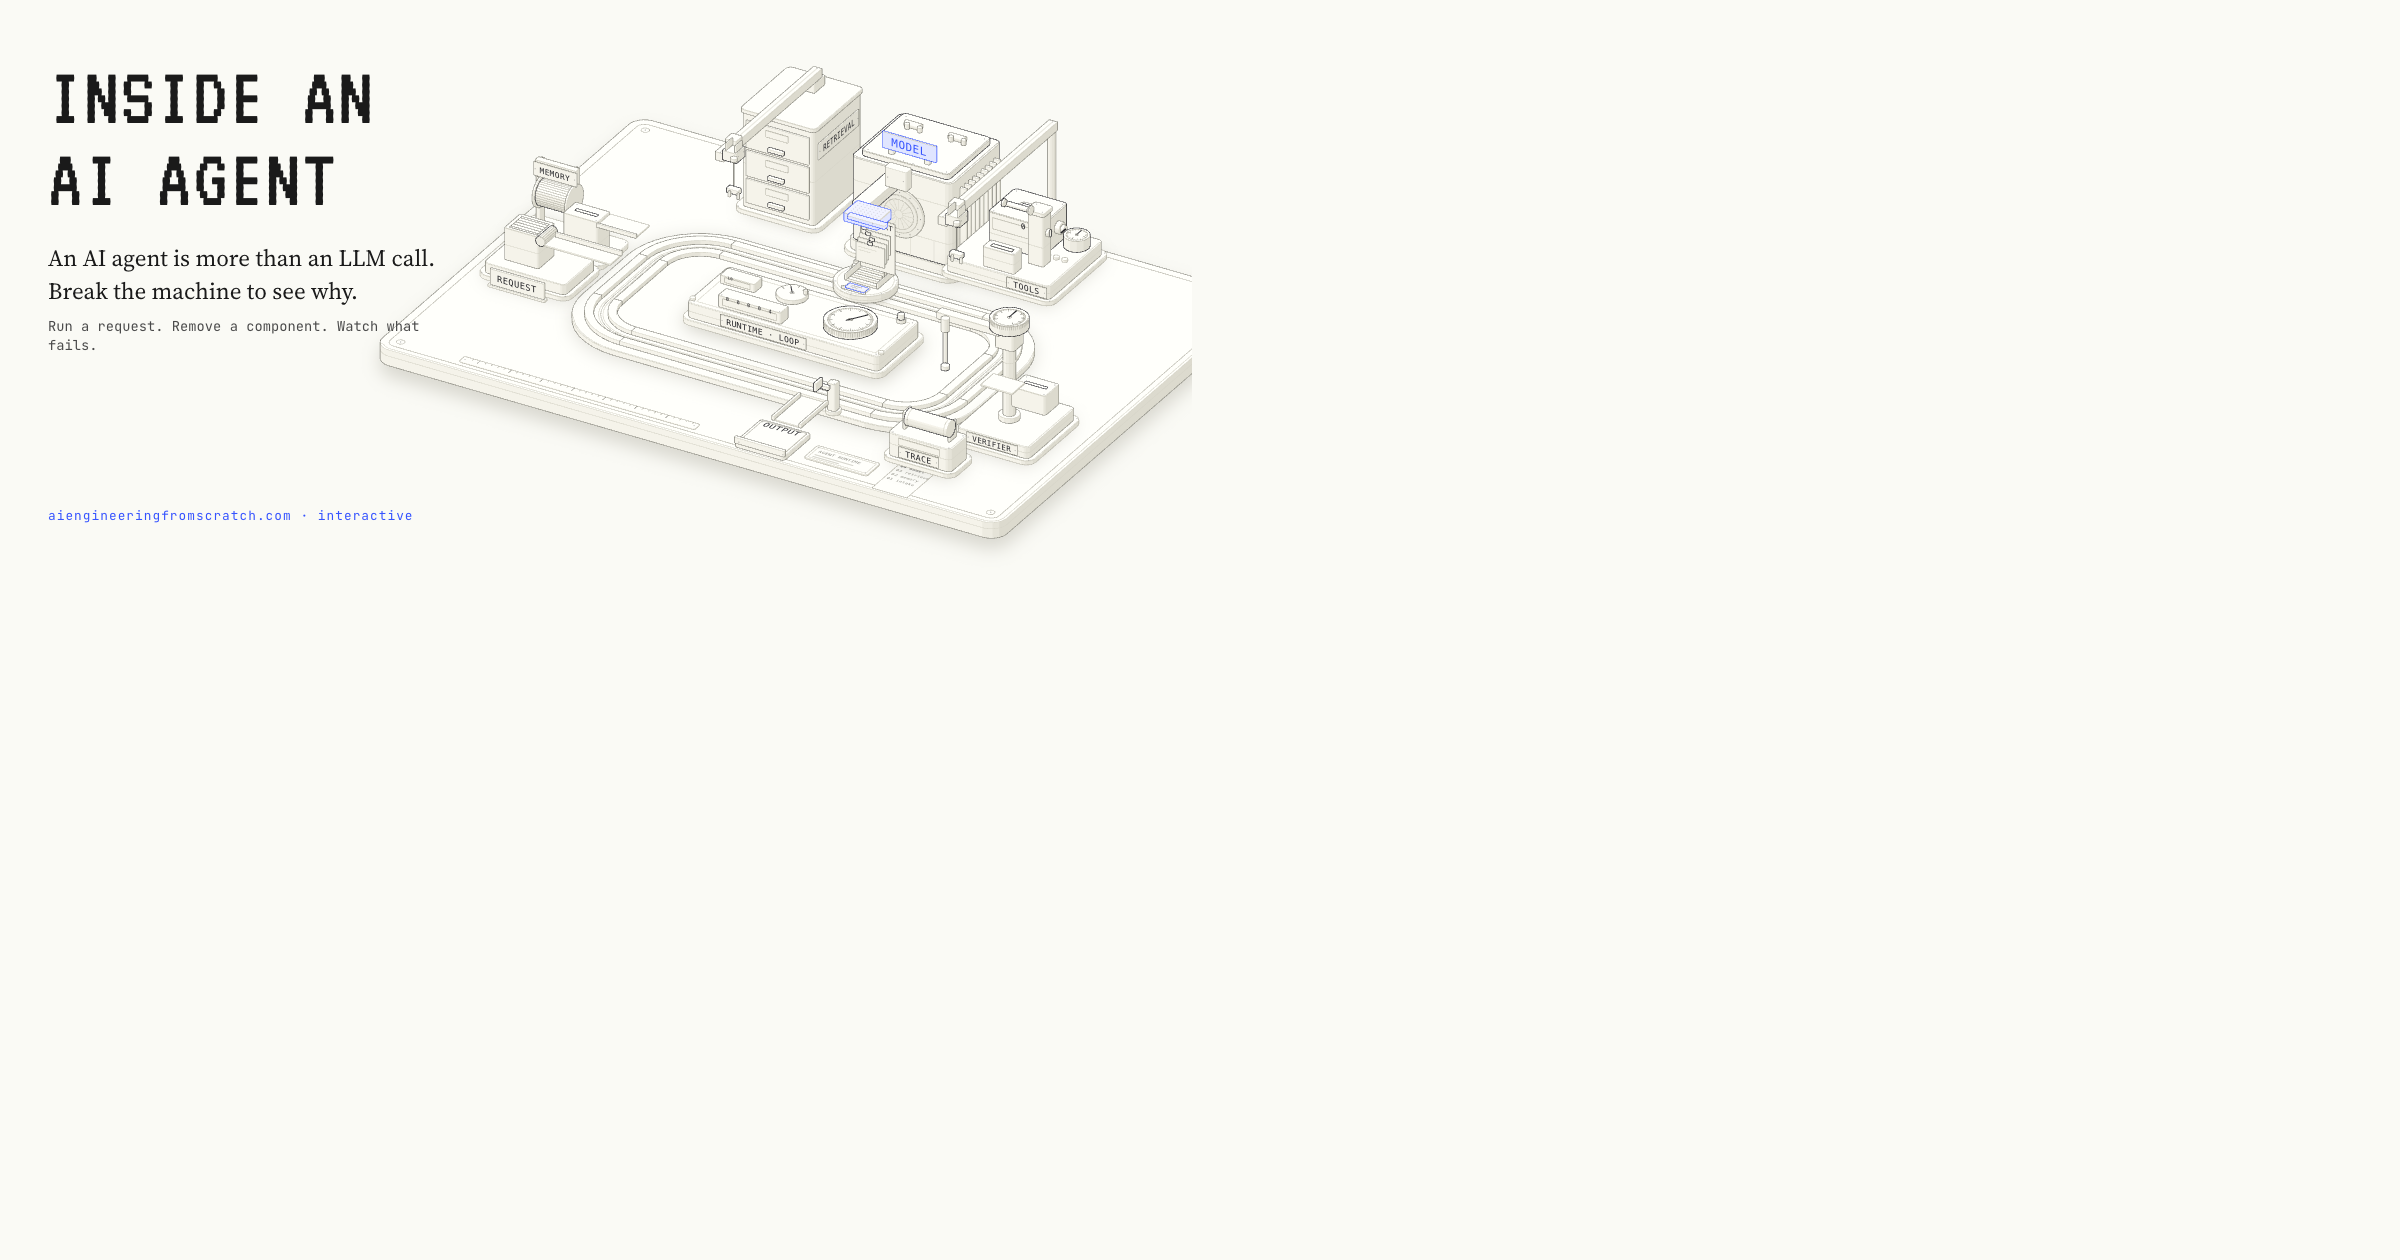
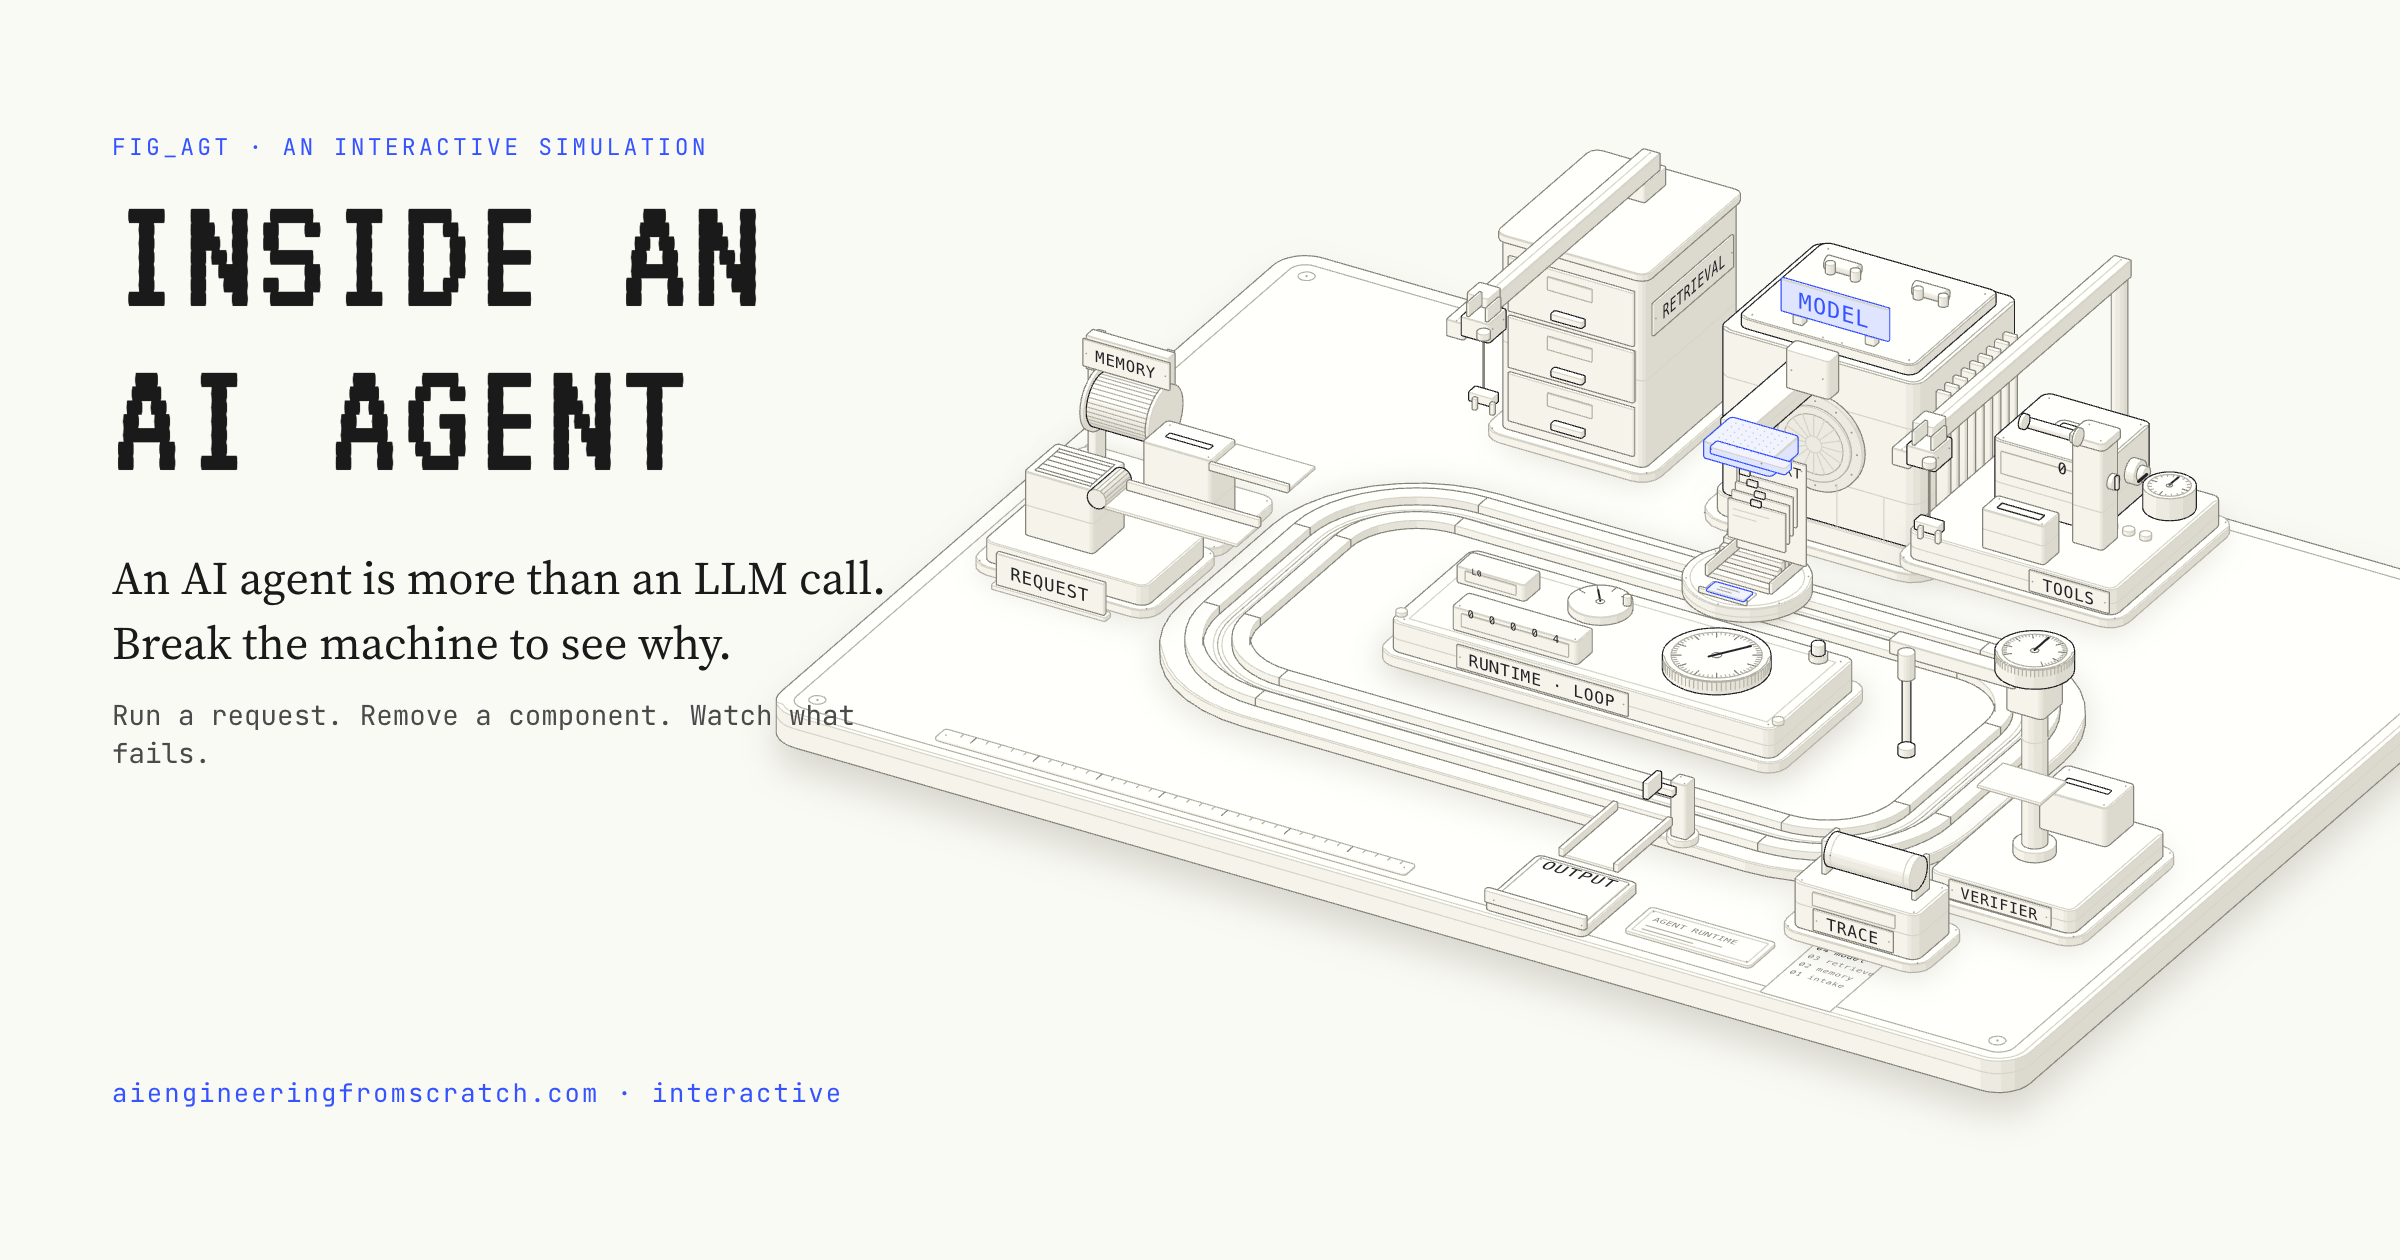
fix(site): show the machine itself on the homepage feature
The homepage card used the 2400 px poster, which rendered at 1x into a
2x canvas and left the machine in one corner. Render the posters at a
true 2x with CSS zoom, and give the homepage a machine-only image in
light and dark so it does not repeat the section title.

diff --git a/site/index.html b/site/index.html
@@ -797,7 +797,11 @@
     .agent-machine-copy h2 { font-family: var(--font-display); font-size: clamp(2.2rem, 5vw, 3.4rem); line-height: 0.95; text-transform: uppercase; margin: 0 0 14px; color: var(--ink); }
     .agent-machine-copy p { margin: 0 0 18px; max-width: 34ch; }
     .agent-machine-cta { font-family: var(--font-mono); font-size: 0.82rem; color: var(--blueprint); letter-spacing: 0.04em; text-transform: uppercase; }
-    .agent-machine-link img { display: block; width: 100%; height: auto; border: 1px solid var(--rule-soft); background: #f8f8f3; transition: transform var(--motion-enter) var(--ease-out); }
+    .agent-machine-link img { display: block; width: 100%; height: auto; transition: transform var(--motion-enter) var(--ease-out); }
+    .agent-machine-light { mix-blend-mode: multiply; }
+    .agent-machine-dark { display: none !important; mix-blend-mode: screen; }
+    [data-theme="dark"] .agent-machine-dark { display: block !important; }
+    [data-theme="dark"] .agent-machine-light { display: none !important; }
     .agent-machine-link:hover img, .agent-machine-link:focus-visible img { transform: translateY(-2px); }
     @media (max-width: 760px) { .agent-machine-link { grid-template-columns: 1fr; gap: 18px; } }
     @media (prefers-reduced-motion: reduce) { .agent-machine-link img { transition: none; } }
@@ -2399,7 +2403,8 @@
           <p>An AI agent is more than an LLM call. Run one request through a working machine, switch off retrieval, tools or the verifier, and watch what fails.</p>
           <span class="agent-machine-cta">Break the machine →</span>
         </div>
-        <img src="anatomy/inside-an-ai-agent-poster.png" width="2400" height="1260" loading="lazy" decoding="async" alt="An isometric card-processing machine: a request card rides a carriage round a loop track past a filing cabinet, a sealed model housing, a tool bay and a verifier gauge.">
+        <img class="agent-machine-light" src="anatomy/inside-an-ai-agent-machine.png" width="2400" height="1260" loading="lazy" decoding="async" alt="An isometric card-processing machine with a nameplate on each station: request, memory, retrieval, model, tools, verifier, output, trace and the runtime loop.">
+        <img class="agent-machine-dark" src="anatomy/inside-an-ai-agent-machine-dark.png" width="2400" height="1260" loading="lazy" decoding="async" alt="">
       </a>
     </section>
 

diff --git a/site/inside-an-ai-agent.html b/site/inside-an-ai-agent.html
@@ -32,7 +32,7 @@
       var stored = '';
       try { stored = localStorage.getItem('theme') || ''; } catch (_) {}
       root.setAttribute('data-theme', stored || (window.matchMedia && window.matchMedia('(prefers-color-scheme: dark)').matches ? 'dark' : 'light'));
-      if (/[?&]poster\b/.test(location.search)) root.setAttribute('data-poster', '');
+      var poster = /[?&]poster(?:=([a-z0-9]))?\b/.exec(location.search); if (poster) root.setAttribute('data-poster', poster[1] || '1');
     })();
   </script>
   <style>
@@ -363,6 +363,9 @@ body[data-am-exporting] .am-stage { pointer-events: none; }
 }
 
 :root[data-poster] body { background: var(--bg); }
+:root[data-poster="2"] body, :root[data-poster="m"] body { zoom: 2; }
+:root[data-poster="m"] .am-hero { display: none; }
+:root[data-poster="m"] .am-center { right: auto; left: 50%; transform: translateX(-50%); width: 1160px; top: -46px; }
 :root[data-poster] .site-header, :root[data-poster] .site-footer, :root[data-poster] .am-toolbar, :root[data-poster] .am-left, :root[data-poster] .am-right, :root[data-poster] .am-readouts, :root[data-poster] .am-flash, :root[data-poster] .am-why, :root[data-poster] .skip-link { display: none !important; }
 :root[data-poster] .am-screen { display: block; height: auto; min-height: 0; padding: 0; }
 :root[data-poster] .am { padding: 0; width: 1200px; height: 630px; position: relative; overflow: hidden; }

diff --git a/scripts/agent-machine/page.css b/scripts/agent-machine/page.css
@@ -219,6 +219,9 @@ body[data-am-exporting] .am-stage { pointer-events: none; }
 }
 
 :root[data-poster] body { background: var(--bg); }
+:root[data-poster="2"] body, :root[data-poster="m"] body { zoom: 2; }
+:root[data-poster="m"] .am-hero { display: none; }
+:root[data-poster="m"] .am-center { right: auto; left: 50%; transform: translateX(-50%); width: 1160px; top: -46px; }
 :root[data-poster] .site-header, :root[data-poster] .site-footer, :root[data-poster] .am-toolbar, :root[data-poster] .am-left, :root[data-poster] .am-right, :root[data-poster] .am-readouts, :root[data-poster] .am-flash, :root[data-poster] .am-why, :root[data-poster] .skip-link { display: none !important; }
 :root[data-poster] .am-screen { display: block; height: auto; min-height: 0; padding: 0; }
 :root[data-poster] .am { padding: 0; width: 1200px; height: 630px; position: relative; overflow: hidden; }
